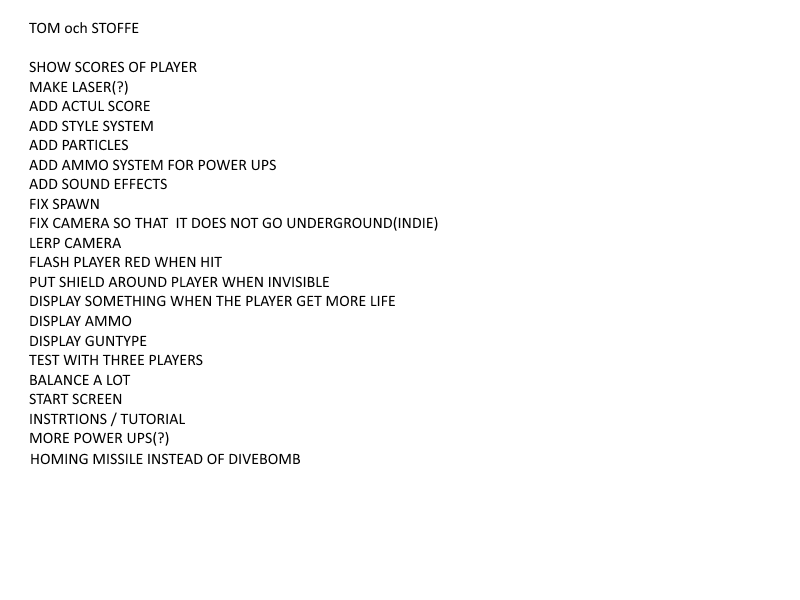
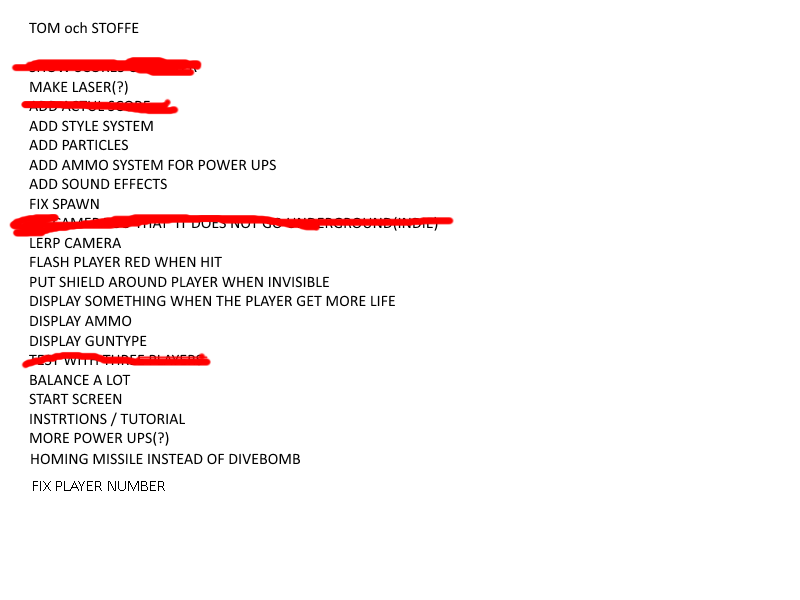
Homing missiles

Changed region(s): [[0.0, 0.33, 0.5625, 0.42], [0.0, 0.09, 0.25, 0.21], [0.0312, 0.57, 0.2812, 0.63]]

diff --git a/no-more-sweden-2015/no-more-sweden-2015/no-more-sweden-2015/Rockets.cs b/no-more-sweden-2015/no-more-sweden-2015/no-more-sweden-2015/Rockets.cs
@@ -8,7 +8,13 @@ namespace no_more_sweden_2015
 {
     class Rocket : Projectile
     {
+        PlayerIndex targetIndex;
+
         float accel;
+        float wantedAngle;
+
+        short followTime;
+        short followTimeCount;
 
         public Rocket(Vector2 position2, byte damege2, float angle2, float speed2, float accel2, PlayerIndex playerIndex2)
         {
@@ -16,6 +22,9 @@ namespace no_more_sweden_2015
 
             Speed = speed2;
             Angle = angle2;
+
+            if (Angle > 180) Angle -= 360;
+            if (Angle < -180) Angle += 360;
 
             Damege = damege2;
 
@@ -25,6 +34,8 @@ namespace no_more_sweden_2015
             Color = Color.Green;
             Scale = 0.5f;
 
+            followTime = 64;
+
             PlayerIndex = playerIndex2;
         }
 
@@ -32,16 +43,59 @@ namespace no_more_sweden_2015
         {
             Rotation = Angle;
 
-            Angle = Globals.Lerp(Angle, -270, 0.1f);
-
             MoveFoward();
             CollisionCheck();
 
-            if (Speed <= 20)
+           // Deaccelerate(accel, 1.2f);
+
+            if (followTime < followTimeCount)
             {
-                Deaccelerate(-accel, -1);
+                Expire(1000);
             }
 
+            if (followTime >= followTimeCount)
+            {
+                followTimeCount += 1;
+
+                foreach (Player p in GameObjectManager.gameObjects.Where(item => item is Player))
+                {
+                    if (p.playerIndex != PlayerIndex)
+                    {
+                        if (p.HitBox.Intersects(HitBox))
+                        {
+                            Impact();
+                            p.Health -= (sbyte)Damege;
+                        }
+
+                        if (p.playerIndex == targetIndex)
+                        {
+                            wantedAngle = Globals.RadianToDegree((float)Math.Atan2(p.Position.Y - Position.Y, p.Position.X - Position.X));
+
+                            if (wantedAngle < Angle) Angle -= 5f;
+                            if (wantedAngle > Angle) Angle += 5f;
+                        }
+
+                        if (Globals.numberOfPlayers >= 3)
+                        {
+                            foreach (Player p2 in GameObjectManager.gameObjects.Where(item2 => item2 is Player))
+                            {
+                                if (p != p2 && p2.playerIndex != PlayerIndex)
+                                {
+                                    if (DistanceTo(p2.Position) <= DistanceTo(p.Position))
+                                    {
+                                        targetIndex = p.playerIndex;
+                                    }
+                                }
+                            }
+                        }
+                        else
+                        {
+                            targetIndex = p.playerIndex;
+                        }
+                    }
+                }
+                
+            }
             base.Update();
         }
     }

diff --git a/no-more-sweden-2015/no-more-sweden-2015/no-more-sweden-2015/Gui.cs b/no-more-sweden-2015/no-more-sweden-2015/no-more-sweden-2015/Gui.cs
@@ -46,6 +46,13 @@ namespace no_more_sweden_2015
 
                 string playerText = "PLAYER " + (i + 1) + ": " + Convert.ToInt32(displayScore[i]);
 
+                Color playerColor;
+
+                if (i < 2)
+                    spriteBatch.DrawString(AssetManager.font, playerText, new Vector2((i * 640) - (AssetManager.font.MeasureString(playerText).X) * Convert.ToInt32(pushOutFromScreen) - 1, 10 - 1), Color.Black, 0, Vector2.Zero, 1f, SpriteEffects.None, 0);
+                else
+                    spriteBatch.DrawString(AssetManager.font, playerText, new Vector2((i * 300) - 600 - (AssetManager.font.MeasureString(playerText).X) * Convert.ToInt32(pushOutFromScreen) - 1, 450 - 1), Color.Black, 0, Vector2.Zero, 1f, SpriteEffects.None, 0);
+
                 if (i < 2)
                     spriteBatch.DrawString(AssetManager.font, playerText, new Vector2((i * 640) - (AssetManager.font.MeasureString(playerText).X) * Convert.ToInt32(pushOutFromScreen), 10), new Color(150 + i * 50, 150, 150));
                 else

diff --git a/no-more-sweden-2015/no-more-sweden-2015/no-more-sweden-2015/Game1.cs b/no-more-sweden-2015/no-more-sweden-2015/no-more-sweden-2015/Game1.cs
@@ -47,6 +47,8 @@ namespace no_more_sweden_2015
             foreach (PlayerIndex playerIndex in Enum.GetValues(typeof(PlayerIndex)))
                 if (GamePad.GetState(playerIndex).IsConnected) Globals.numberOfPlayers++;
 
+            Globals.playersColors = new Color[Globals.numberOfPlayers];
+
             int slice = 640 / (Globals.numberOfPlayers + 1);
 
             for (int i = 1; i <= Globals.numberOfPlayers; i++)
@@ -69,6 +71,14 @@ namespace no_more_sweden_2015
             GameObjectManager.Add(new PowerUp(new Vector2(100, 0), 1));
 
             gui = new Gui();
+
+            foreach (Player p in GameObjectManager.gameObjects.Where(item => item is Player))
+            {
+                for (int i = 0; i < Globals.numberOfPlayers; i++ )
+                {
+                    if (Globals.playersColors[i] == null) Globals.playersColors[i] = p.Color;
+                }
+            }
 
             base.Initialize();
         }

diff --git a/no-more-sweden-2015/no-more-sweden-2015/no-more-sweden-2015/PowerUpSpawner.cs b/no-more-sweden-2015/no-more-sweden-2015/no-more-sweden-2015/PowerUpSpawner.cs
@@ -25,7 +25,7 @@ namespace no_more_sweden_2015
 
             if (spawnCount >= maxSpawnCount)
             {
-                GameObjectManager.Add(new PowerUp(new Vector2(random.Next((int)Game1.camera.Pos.X-320, (int)Game1.camera.Pos.X+321), Game1.camera.Pos.Y - 300), (byte)random.Next(0, 5)));  
+                //GameObjectManager.Add(new PowerUp(new Vector2(random.Next((int)Game1.camera.Pos.X-320, (int)Game1.camera.Pos.X+321), Game1.camera.Pos.Y - 300), (byte)random.Next(0, 5)));  
 
                 spawnCount = 0;
             }

diff --git a/no-more-sweden-2015/no-more-sweden-2015/no-more-sweden-2015/Globals.cs b/no-more-sweden-2015/no-more-sweden-2015/no-more-sweden-2015/Globals.cs
@@ -38,6 +38,8 @@ namespace no_more_sweden_2015
 
         public const float G = 0.16f;
 
+        public static Color[] playersColors;
+
         public void AddScore(PlayerIndex player, int score)
         {
             foreach (Player p in GameObjectManager.gameObjects.Where(O => O is Player))
